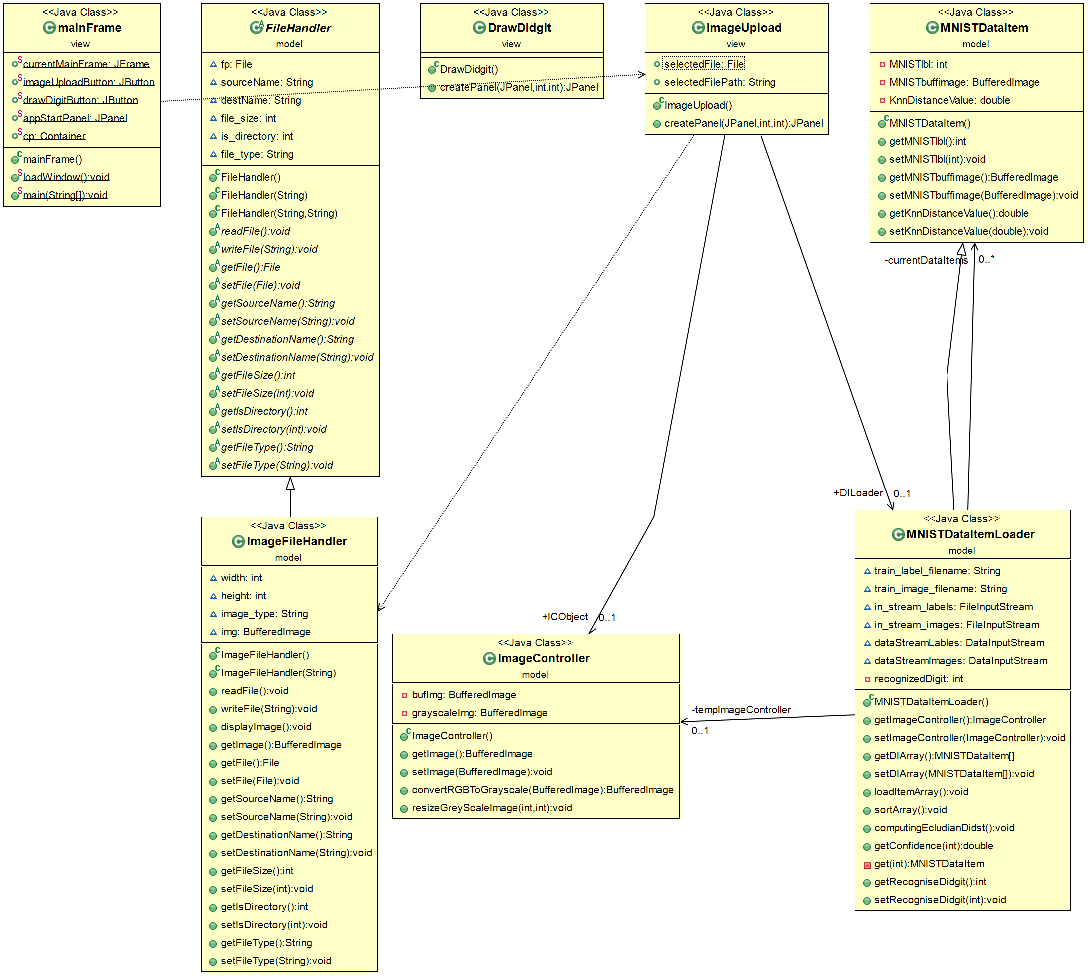
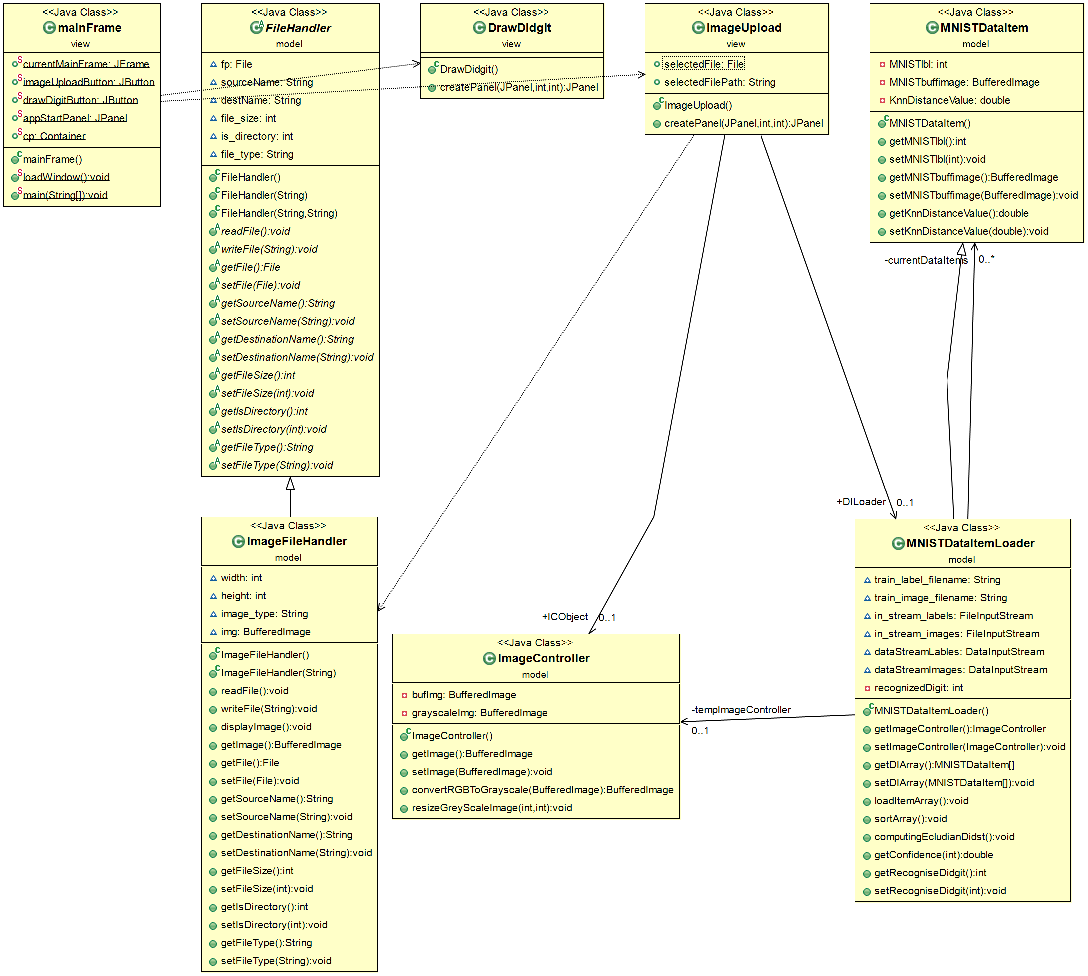
testing different method
tying a different implementation of the confidence to see which is better

Changed region(s): [[0.7812, 0.4918, 1.0, 0.9529]]

diff --git a/src/model/MNISTDataItemLoader.java b/src/model/MNISTDataItemLoader.java
@@ -145,93 +145,8 @@ public class MNISTDataItemLoader extends MNISTDataItem {
 	}
 	
 	public double getConfidence( int k ) {   
-		System.out.println("start knn");
-		int maxCountLabel = 0; 
-	    int maxCount = 0;
-	    try {
-	    	this.sortArray(); 
-	    	int differenceCount = 1 ;  
-	    	
-	    	for(int firstCount = 0; firstCount < k; firstCount++ ) {
-	    		MNISTDataItem LIatIndex = get(firstCount);
-	    		MNISTDataItem currentLabel = currentDataItems[firstCount];
-	    		System.out.println("first Count");
-	    		
-	    	}
-	    	
-	    	for(int secondCount = 0; secondCount < k; secondCount++ ) {
-	    		if (secondCount > 0  ) {
-	    			MNISTDataItem objectAtCurrentIndex = currentDataItems[secondCount];
-	    			MNISTDataItem objectAtPreviousIndex = currentDataItems[secondCount - 1]; 
-	    			if (objectAtCurrentIndex.getMNISTlbl()  !=  objectAtPreviousIndex.getMNISTlbl() ) {
-	    				differenceCount++; 
-	    				System.out.println("second Count");
-	    			}
-	    		}
-	    	}
-	    	int[] labelTrackingArray = new int[differenceCount]; 
-	    	int[] countTrackingArray = new int[differenceCount];
-	    	double[] distanceTrackingArray = new double[differenceCount]; 
-	    	int count = 1; 
-	    	int internalDifferenceCount = 0; 
-	    	for (int thirdCount = 0; thirdCount < k; thirdCount++) {
-	    		if(internalDifferenceCount <= differenceCount) {
-	    			int trackedLabel = currentDataItems[thirdCount].getMNISTlbl();
-	    			double trackedDistance = currentDataItems[thirdCount].getKnnDistanceValue(); 
-	    			if (thirdCount > 0) {
-	    				MNISTDataItem selectedObjectAtCurrentIndex = currentDataItems[thirdCount] ;
-	    				MNISTDataItem selectedObjectAtPreviousIndex = currentDataItems[thirdCount - 1];
-	    				if(selectedObjectAtCurrentIndex.getMNISTlbl() == selectedObjectAtPreviousIndex.getMNISTlbl()) {
-	    					count++;
-	    				}
-	    				else {
-	    					trackedLabel = selectedObjectAtCurrentIndex.getMNISTlbl();
-	    					trackedDistance = selectedObjectAtCurrentIndex.getKnnDistanceValue();
-	    					count = 1; 
-	    					internalDifferenceCount++;
-	    				}
-	    				
-	    			}
-	    			
-	    			labelTrackingArray[internalDifferenceCount] = trackedLabel;
-	    			countTrackingArray[internalDifferenceCount] = count;
-	    			distanceTrackingArray[internalDifferenceCount] = trackedDistance; 
-	    			}
-	    	}
-	    	System.out.println("third Count");
-	    	 for (int fourthCount = 0; fourthCount < differenceCount; fourthCount++) {
-	    		 if(fourthCount > 0) {
-	    			 if(distanceTrackingArray[fourthCount - 1] < distanceTrackingArray[fourthCount]) {
-	    				 if(countTrackingArray[fourthCount] >= countTrackingArray[fourthCount - 1]) {
-	    					 maxCountLabel = labelTrackingArray[fourthCount - 1]; 
-	    					 maxCount = countTrackingArray[fourthCount - 1];
-	    				 }
-	    			 }
-	    			 else {
-	    				 maxCountLabel = labelTrackingArray[fourthCount];
-	    				 maxCount = countTrackingArray[fourthCount];
-	    			 }
-	    		 }
-	    			 else {
-	    				 maxCountLabel = labelTrackingArray[fourthCount]; 
-	    				 maxCount = countTrackingArray[fourthCount];
-	    				 }
-	    		 }
-	    	 System.out.println("fourth count");
-	    	 } catch (Exception e) {
-	    		 e.printStackTrace();
-	    	 }
-	    	this.setRecogniseDidgit(maxCountLabel);
-		    double accuracyratio = ((double) maxCount / k ) * 100; 
-			return accuracyratio;	
-		}
 	
-		private MNISTDataItem get(int firstCount) {
-		// TODO Auto-generated method stub
-		return null;
-	}
-
-		/*
+		
 		this.sortArray(); 
 		int[] labelArray = new int [k];
 		MNISTDataItem[] tempMDIArray = this.getDIArray();
@@ -263,7 +178,7 @@ public class MNISTDataItemLoader extends MNISTDataItem {
 		return accuracyratio;
 		
 	}	
-	*/
+	
 	public int getRecogniseDidgit() {
 		return this.recognizedDigit;
 	}
